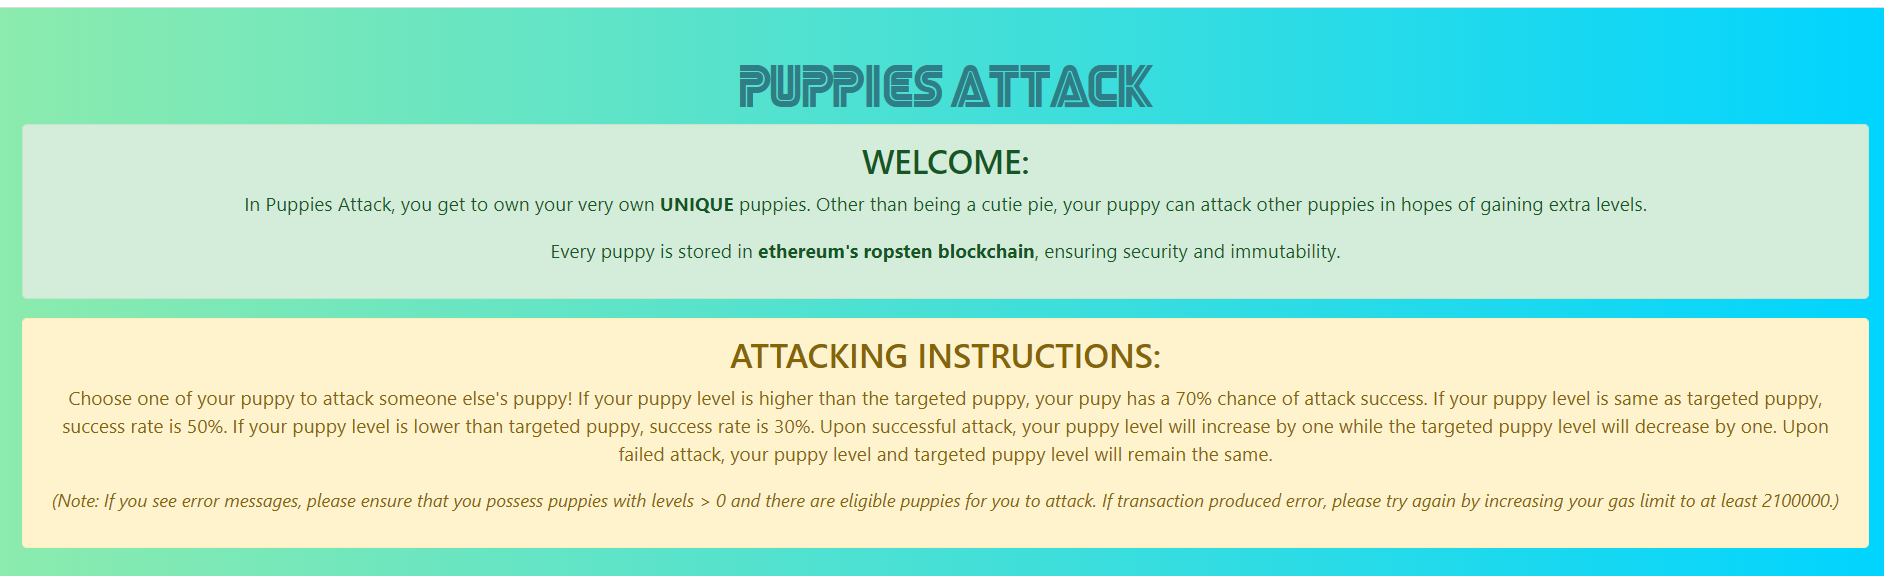
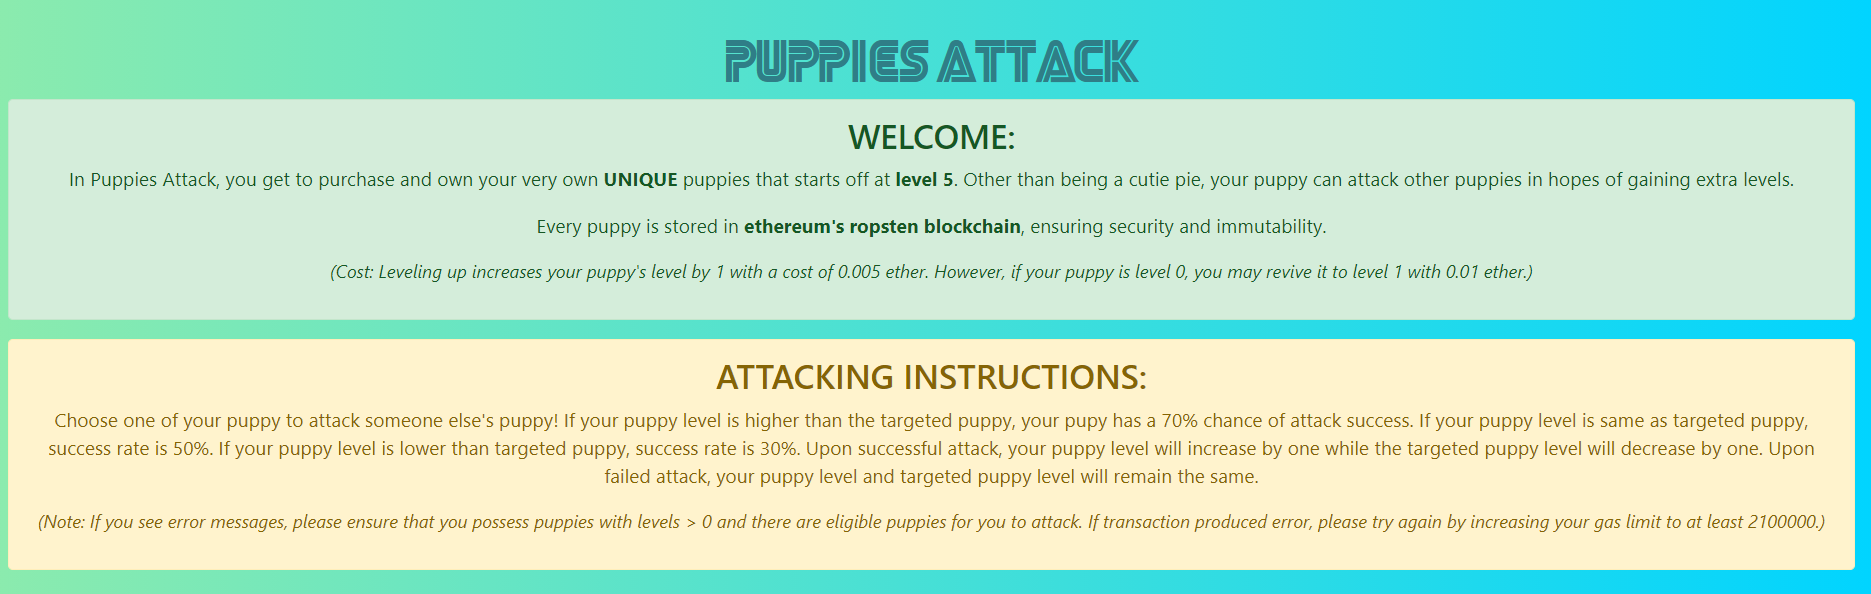
Update readme with updated pictures after changing the description and level up text

Changed region(s): [[0.0, 0.0625, 0.992, 0.9688], [0.124, 0.3438, 0.868, 0.4688], [0.0, 0.0, 1.0, 0.0312]]

diff --git a/client/src/components/Description.jsx b/client/src/components/Description.jsx
@@ -18,9 +18,9 @@ const Description = () => {
           immutability.
         </p>
         <p style={{ fontSize: "15px", fontStyle: "italic" }}>
-          (<strong>Cost:</strong> Leveling up increases your puppy's level by 1
-          with a cost of 0.005 ether. However, if your puppy is level 0, you may
-          revive it to level 1 with 0.01 ether.)
+          (Cost: Leveling up increases your puppy's level by 1 with a cost of
+          0.005 ether. However, if your puppy is level 0, you may revive it to
+          level 1 with 0.01 ether.)
         </p>
       </Alert>
       <Alert variant="warning">
